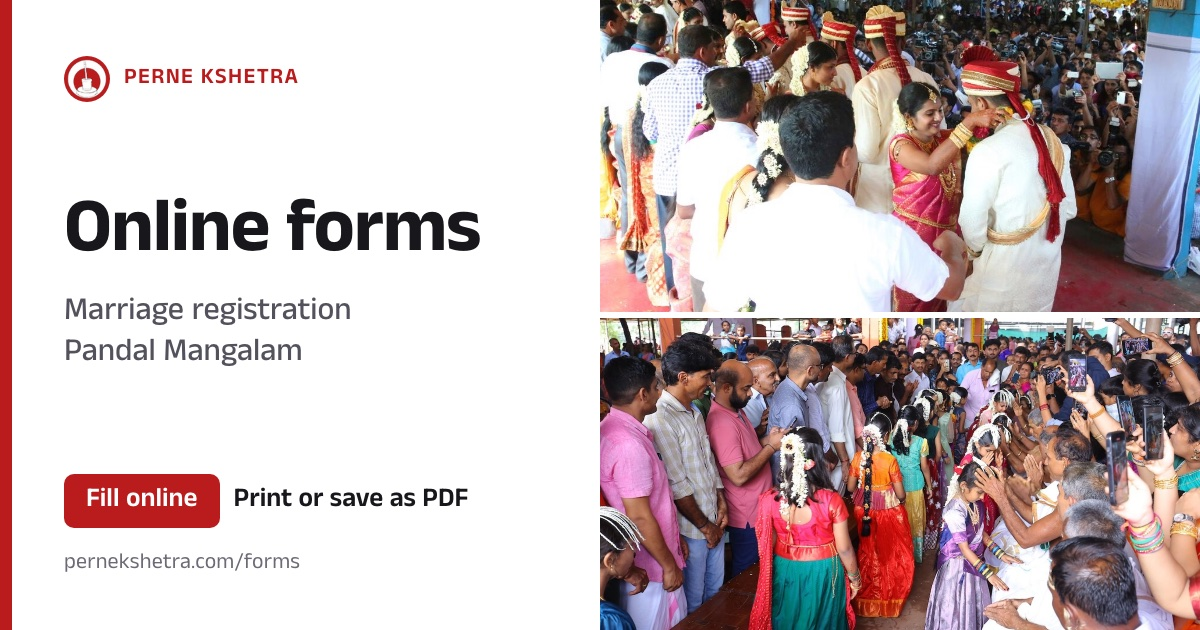
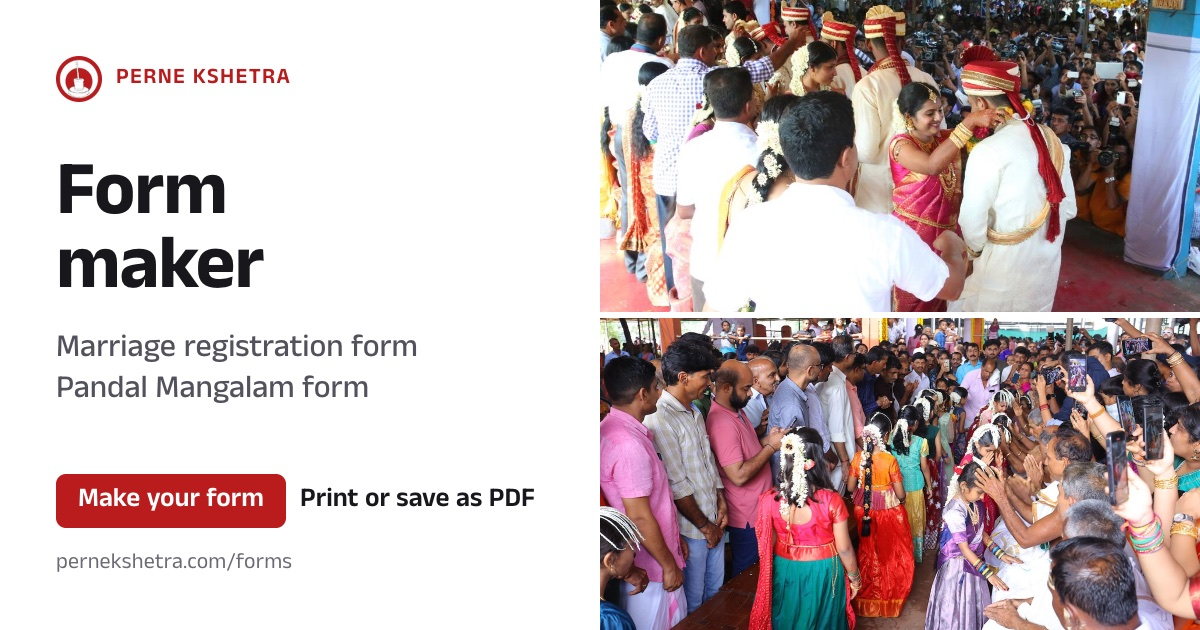
Rename online forms to "Form maker"; remove bar from social images
The pages help people make and print the paper form; they do not do
the registration. Titles, headings, link previews and social images
now say "Form maker". The printed sheet keeps its official title.
The red left bar on the social images is removed.

Changed region(s): [[0.0, 0.0, 0.4625, 1.0]]

diff --git a/forms/index.html b/forms/index.html
@@ -6,22 +6,22 @@
     <meta name="viewport" content="width=device-width, initial-scale=1.0">
     <link rel="shortcut icon" type="image/png" href="../favicon.png" />
     <link rel="icon" type="image/png" href="../favicon.png" />
-    <meta name="description" content="Fill the marriage and Pandal Mangalam forms of Perne Muchilotu Bhagavathi Kshetra online and print them or save them as PDF.">
-    <meta property="og:title" content="Online Forms - Perne Kshetra" />
+    <meta name="description" content="Form maker of Perne Muchilotu Bhagavathi Kshetra: make the marriage registration and Pandal Mangalam forms online, then print them or save them as PDF.">
+    <meta property="og:title" content="Form Maker - Perne Kshetra" />
     <meta property="og:type" content="website" />
     <meta property="og:url" content="https://pernekshetra.com/forms/"/>
     <meta property="og:site_name" content="Perne Kshetra" />
-    <meta property="og:description" content="Fill the Marriage registration or Pandal Mangalam form on your phone, then print it or save it as PDF. Nothing is sent to any server." />
+    <meta property="og:description" content="Make the Marriage registration or Pandal Mangalam form on your phone, then print it or save it as PDF. Nothing is sent to any server." />
     <meta property="og:image" content="https://pernekshetra.com/forms/og/forms.jpg" />
     <meta property="og:image:type" content="image/jpeg" />
     <meta property="og:image:width" content="1200" />
     <meta property="og:image:height" content="630" />
-    <meta property="og:image:alt" content="Online forms of Perne Kshetra: Marriage registration and Pandal Mangalam" />
+    <meta property="og:image:alt" content="Form maker of Perne Kshetra: Marriage registration and Pandal Mangalam forms" />
     <meta name="twitter:card" content="summary_large_image" />
-    <meta name="twitter:title" content="Online Forms - Perne Kshetra" />
-    <meta name="twitter:description" content="Fill the Marriage registration or Pandal Mangalam form on your phone, then print it or save it as PDF. Nothing is sent to any server." />
+    <meta name="twitter:title" content="Form Maker - Perne Kshetra" />
+    <meta name="twitter:description" content="Make the Marriage registration or Pandal Mangalam form on your phone, then print it or save it as PDF. Nothing is sent to any server." />
     <meta name="twitter:image" content="https://pernekshetra.com/forms/og/forms.jpg" />
-    <title>Online Forms - Perne</title>
+    <title>Form Maker - Perne</title>
     <link rel="stylesheet" href="https://maxcdn.bootstrapcdn.com/bootstrap/3.3.4/css/bootstrap.min.css">
     <link href="../css/custom.css" rel="stylesheet" type="text/css">
     <link href="forms.css" rel="stylesheet" type="text/css">
@@ -54,24 +54,24 @@
     <main>
      <div class="fp-wrap narrow">
       <header class="fp-header">
-        <h1>Online forms</h1>
-        <p class="fp-sub">Fill the form on your phone or computer, then print it or save it as PDF.</p>
+        <h1>Form maker</h1>
+        <p class="fp-sub">Make the form on your phone or computer, then print it or save it as PDF. Submit the signed paper form at the temple.</p>
         <p class="fp-privacy"><i class="fa fa-lock" aria-hidden="true"></i><span>Your details stay on your device. Nothing is sent to the temple or to any server.</span></p>
       </header>
       <div class="fp-list">
         <section class="fp-item">
           <span class="ic" aria-hidden="true"><i class="fa fa-heart"></i></span>
           <div>
-            <h2>Marriage registration</h2>
+            <h2>Marriage registration form</h2>
             <p class="tr">ವಿವಾಹ ನೋಂದಣಿ · വിവാഹ രജിസ്ട്രേഷൻ</p>
             <p class="desc">One form for the bride and the bridegroom. Prints on 2 A4 pages with the instructions in Kannada and Malayalam.</p>
-            <div class="links"><a class="btn-x btn-primary-x" href="marriage/">Fill the form <i class="fa fa-arrow-right" aria-hidden="true"></i></a></div>
+            <div class="links"><a class="btn-x btn-primary-x" href="marriage/">Make the form <i class="fa fa-arrow-right" aria-hidden="true"></i></a></div>
           </div>
         </section>
         <section class="fp-item">
           <span class="ic" aria-hidden="true"><i class="fa fa-star"></i></span>
           <div>
-            <h2>Pandal Mangalam</h2>
+            <h2>Pandal Mangalam form</h2>
             <p class="tr">ಚಪ್ಪರ ಮದುವೆ · പന്തൽ മംഗലം</p>
             <p class="desc">Application by the parents. Choose the language of the printed form.</p>
             <div class="links">

diff --git a/forms/pandal-mangalam/index.html b/forms/pandal-mangalam/index.html
@@ -1,6 +1,6 @@
 <!DOCTYPE html>
 <html lang="en">
-  <!-- ******************************** Pandal Mangalam application - fill online, print / save as PDF ******************************** -->
+  <!-- ******************************** Pandal Mangalam form maker - fill online, print / save as PDF ******************************** -->
   <!-- Kannada and Malayalam text was retyped from the paper forms. TODO(proofread): a native reader must check every lang="kn" / lang="ml" string. -->
   <head>
     <meta charset="utf-8">
@@ -8,22 +8,22 @@
     <meta name="viewport" content="width=device-width, initial-scale=1.0">
     <link rel="shortcut icon" type="image/png" href="../../favicon.png" />
     <link rel="icon" type="image/png" href="../../favicon.png" />
-    <meta name="description" content="Fill the Pandal Mangalam application of Perne Muchilotu Bhagavathi Kshetra online and print it or save it as PDF.">
-    <meta property="og:title" content="Pandal Mangalam Application - Perne Kshetra" />
+    <meta name="description" content="Pandal Mangalam form maker of Perne Muchilotu Bhagavathi Kshetra: make the application form online, then print it or save it as PDF.">
+    <meta property="og:title" content="Pandal Mangalam Form Maker - Perne Kshetra" />
     <meta property="og:type" content="website" />
     <meta property="og:url" content="https://pernekshetra.com/forms/pandal-mangalam/"/>
     <meta property="og:site_name" content="Perne Kshetra" />
-    <meta property="og:description" content="Fill the Pandal Mangalam application in Kannada or Malayalam, then print it or save it as PDF. Nothing is sent to any server." />
+    <meta property="og:description" content="Make the Pandal Mangalam application form in Kannada or Malayalam, then print it or save it as PDF. Nothing is sent to any server." />
     <meta property="og:image" content="https://pernekshetra.com/forms/og/pandal.jpg" />
     <meta property="og:image:type" content="image/jpeg" />
     <meta property="og:image:width" content="1200" />
     <meta property="og:image:height" content="630" />
-    <meta property="og:image:alt" content="Pandal Mangalam application at Perne Kshetra, with girls at the pandal ceremony" />
+    <meta property="og:image:alt" content="Pandal Mangalam form maker of Perne Kshetra, with girls at the pandal ceremony" />
     <meta name="twitter:card" content="summary_large_image" />
-    <meta name="twitter:title" content="Pandal Mangalam Application - Perne Kshetra" />
-    <meta name="twitter:description" content="Fill the Pandal Mangalam application in Kannada or Malayalam, then print it or save it as PDF. Nothing is sent to any server." />
+    <meta name="twitter:title" content="Pandal Mangalam Form Maker - Perne Kshetra" />
+    <meta name="twitter:description" content="Make the Pandal Mangalam application form in Kannada or Malayalam, then print it or save it as PDF. Nothing is sent to any server." />
     <meta name="twitter:image" content="https://pernekshetra.com/forms/og/pandal.jpg" />
-    <title>Pandal Mangalam Application - Perne</title>
+    <title>Pandal Mangalam Form Maker - Perne</title>
     <link rel="stylesheet" href="https://maxcdn.bootstrapcdn.com/bootstrap/3.3.4/css/bootstrap.min.css">
     <link href="../../css/custom.css" rel="stylesheet" type="text/css">
     <link href="../sheet.css" rel="stylesheet" type="text/css">
@@ -76,9 +76,9 @@
     <main>
      <div class="fp-wrap">
       <header class="fp-header">
-        <a class="fp-back" href="../"><i class="fa fa-arrow-left" aria-hidden="true"></i> All forms</a>
-        <h1><span lang="kn">ಚಪ್ಪರ ಮದುವೆಯ ಅರ್ಜಿ</span><span lang="ml">പന്തൽ മംഗലത്തിനുള്ള അപേക്ഷ</span></h1>
-        <p class="fp-sub">Pandal Mangalam application</p>
+        <a class="fp-back" href="../"><i class="fa fa-arrow-left" aria-hidden="true"></i> Form maker</a>
+        <h1>Pandal Mangalam form maker</h1>
+        <p class="fp-sub"><span lang="kn">ಚಪ್ಪರ ಮದುವೆಯ ಅರ್ಜಿ</span><span lang="ml">പന്തൽ മംഗലത്തിനുള്ള അപേക്ഷ</span></p>
         <p class="fp-privacy"><i class="fa fa-lock" aria-hidden="true"></i><span>Your details stay on this phone or computer. Nothing is sent to the temple or to any server.</span></p>
       </header>
 

diff --git a/forms/marriage/index.html b/forms/marriage/index.html
@@ -1,6 +1,6 @@
 <!DOCTYPE html>
 <html lang="en">
-  <!-- ******************************** Marriage registration form - fill online, print / save as PDF ******************************** -->
+  <!-- ******************************** Marriage form maker - fill online, print / save as PDF ******************************** -->
   <!-- Kannada and Malayalam instructions were retyped from the paper form. TODO(proofread): a native reader must check them. -->
   <head>
     <meta charset="utf-8">
@@ -8,22 +8,22 @@
     <meta name="viewport" content="width=device-width, initial-scale=1.0">
     <link rel="shortcut icon" type="image/png" href="../../favicon.png" />
     <link rel="icon" type="image/png" href="../../favicon.png" />
-    <meta name="description" content="Fill the marriage registration form of Perne Muchilotu Bhagavathi Kshetra online and print it or save it as PDF.">
-    <meta property="og:title" content="Marriage Registration Form - Perne Kshetra" />
+    <meta name="description" content="Marriage form maker of Perne Muchilotu Bhagavathi Kshetra: make the marriage registration form online, then print it or save it as PDF.">
+    <meta property="og:title" content="Marriage Form Maker - Perne Kshetra" />
     <meta property="og:type" content="website" />
     <meta property="og:url" content="https://pernekshetra.com/forms/marriage/"/>
     <meta property="og:site_name" content="Perne Kshetra" />
-    <meta property="og:description" content="Fill the Perne Kshetra marriage registration form on your phone, then print it or save it as PDF. Nothing is sent to any server." />
+    <meta property="og:description" content="Make the Perne Kshetra marriage registration form on your phone, then print it or save it as PDF. Nothing is sent to any server." />
     <meta property="og:image" content="https://pernekshetra.com/forms/og/marriage.jpg" />
     <meta property="og:image:type" content="image/jpeg" />
     <meta property="og:image:width" content="1200" />
     <meta property="og:image:height" content="630" />
-    <meta property="og:image:alt" content="Marriage registration form at Perne Kshetra, with a bride and bridegroom exchanging garlands" />
+    <meta property="og:image:alt" content="Marriage form maker of Perne Kshetra, with a bride and bridegroom exchanging garlands" />
     <meta name="twitter:card" content="summary_large_image" />
-    <meta name="twitter:title" content="Marriage Registration Form - Perne Kshetra" />
-    <meta name="twitter:description" content="Fill the Perne Kshetra marriage registration form on your phone, then print it or save it as PDF. Nothing is sent to any server." />
+    <meta name="twitter:title" content="Marriage Form Maker - Perne Kshetra" />
+    <meta name="twitter:description" content="Make the Perne Kshetra marriage registration form on your phone, then print it or save it as PDF. Nothing is sent to any server." />
     <meta name="twitter:image" content="https://pernekshetra.com/forms/og/marriage.jpg" />
-    <title>Marriage Registration Form - Perne</title>
+    <title>Marriage Form Maker - Perne</title>
     <link rel="stylesheet" href="https://maxcdn.bootstrapcdn.com/bootstrap/3.3.4/css/bootstrap.min.css">
     <link href="../../css/custom.css" rel="stylesheet" type="text/css">
     <link href="../sheet.css" rel="stylesheet" type="text/css">
@@ -107,8 +107,8 @@
     <main>
      <div class="fp-wrap">
       <header class="fp-header">
-        <a class="fp-back" href="../"><i class="fa fa-arrow-left" aria-hidden="true"></i> All forms</a>
-        <h1>Marriage registration</h1>
+        <a class="fp-back" href="../"><i class="fa fa-arrow-left" aria-hidden="true"></i> Form maker</a>
+        <h1>Marriage form maker</h1>
         <p class="fp-sub">ವಿವಾಹ ನೋಂದಣಿ ಅರ್ಜಿ · വിവാഹ രജിസ്ട്രേഷൻ ഫോം</p>
         <p class="fp-privacy"><i class="fa fa-lock" aria-hidden="true"></i><span>Your details stay on this phone or computer. Nothing is sent to the temple or to any server.</span></p>
       </header>

diff --git a/forms/og/template.html b/forms/og/template.html
@@ -22,8 +22,7 @@
 
   .card { display: grid; grid-template-columns: 600px 600px; width: 1200px; height: 630px; }
 
-  .text { position: relative; display: flex; flex-direction: column; padding: 56px 56px 48px 64px; }
-  .text::before { content: ""; position: absolute; left: 0; top: 0; bottom: 0; width: 12px; background: #b91c1c; }
+  .text { display: flex; flex-direction: column; padding: 56px 56px 48px; }
 
   .brand { display: flex; align-items: center; gap: 14px; font-size: 22px; font-weight: 600; letter-spacing: 0.06em; color: #b91c1c; }
   .brand img { width: 46px; height: 46px; border-radius: 50%; background: #b91c1c; padding: 3px; }
@@ -51,7 +50,7 @@
         <p class="tr" id="tr"></p>
       </div>
       <div>
-        <div class="cta"><span class="pill">Fill online</span> Print or save as PDF</div>
+        <div class="cta"><span class="pill">Make your form</span> Print or save as PDF</div>
         <p class="url" id="url"></p>
       </div>
     </div>
@@ -60,15 +59,15 @@
 <script>
   var V = {
     forms: {
-      h: "Online forms", tr: "Marriage registration<br>Pandal Mangalam", url: "pernekshetra.com/forms",
+      h: "Form<br>maker", tr: "Marriage registration form<br>Pandal Mangalam form", url: "pernekshetra.com/forms",
       photos: [["../../Resource/MarriageSection/malaexchange.jpg", "60% 40%"], ["../../Resource/MarriageSection/pandal.jpg", "55% 45%"]]
     },
     marriage: {
-      h: "Marriage<br>registration", tr: "ವಿವಾಹ ನೋಂದಣಿ<br>വിവാഹ രജിസ്ട്രേഷൻ", url: "pernekshetra.com/forms/marriage",
+      h: "Marriage<br>form maker", tr: "ವಿವಾಹ ನೋಂದಣಿ ಅರ್ಜಿ<br>വിവാഹ രജിസ്ട്രേഷൻ ഫോം", url: "pernekshetra.com/forms/marriage",
       photos: [["../../Resource/MarriageSection/malaexchange.jpg", "63% 50%"]]
     },
     pandal: {
-      h: "Pandal<br>Mangalam", tr: "ಚಪ್ಪರ ಮದುವೆ<br>പന്തൽ മംഗലം", url: "pernekshetra.com/forms/pandal-mangalam",
+      h: "Pandal Mangalam<br>form maker", tr: "ಚಪ್ಪರ ಮದುವೆಯ ಅರ್ಜಿ<br>പന്തൽ മംഗലം അപേക്ഷ", url: "pernekshetra.com/forms/pandal-mangalam",
       photos: [["../../Resource/MarriageSection/pandal.jpg", "58% 50%"]]
     }
   };

diff --git a/marriage/index.html b/marriage/index.html
@@ -77,7 +77,7 @@
         <div class="row">
           <div class="col-lg-10 col-lg-offset-1 text-center" style="padding: 10px 15px 0;">
             <a href="../forms/" style="display:inline-block; background:#b91c1c; color:#fff; padding:12px 22px; border-radius:10px; font-weight:600; text-decoration:none;">
-              <i class="fa fa-file-text-o" aria-hidden="true"></i> Fill the Marriage / Pandal Mangalam form online
+              <i class="fa fa-file-text-o" aria-hidden="true"></i> Form maker: make the Marriage / Pandal Mangalam form online
             </a>
           </div>
         </div>

diff --git a/forms/README.md b/forms/README.md
@@ -1,6 +1,7 @@
-# Online forms
+# Form maker
 
-Fill the Marriage Registration and Pandal Mangalam forms in the browser, then print or save as PDF.
+Make the Marriage Registration and Pandal Mangalam forms in the browser, then print or save as PDF.
+This is not online registration: people sign the printed form and submit it at the temple.
 There is no backend. Data stays in the browser.
 
 | Page | Prints |
